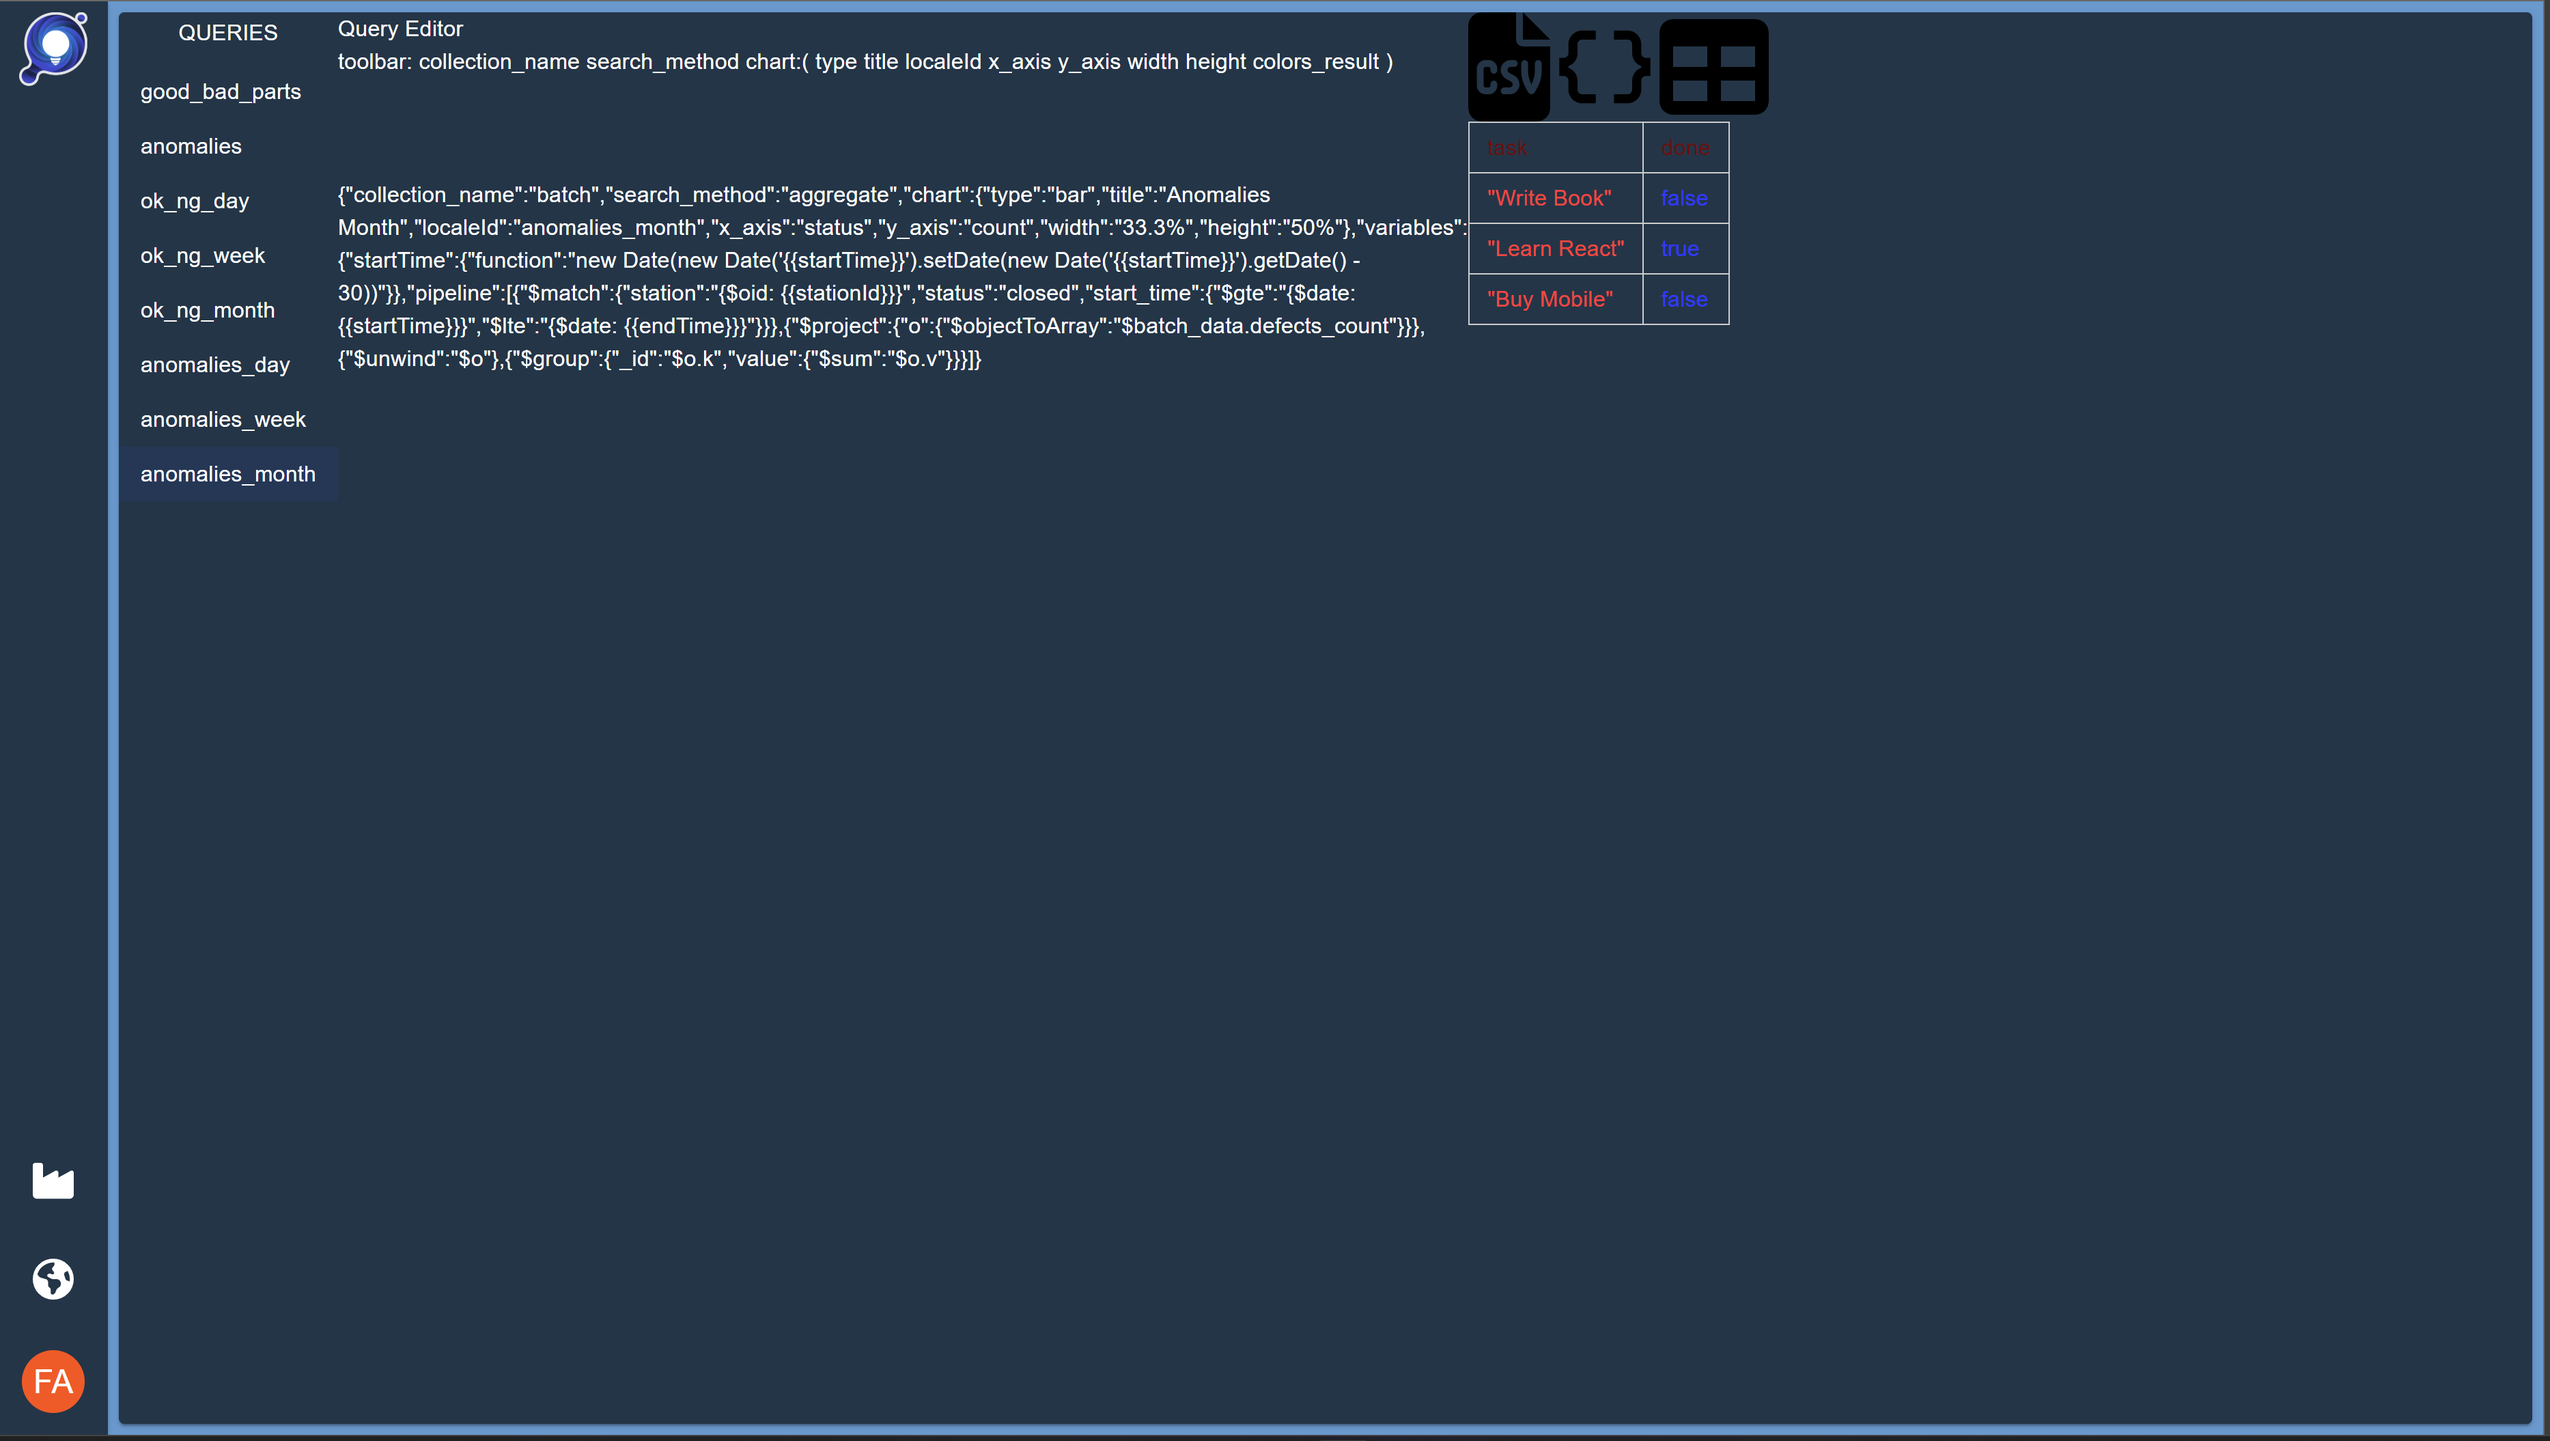
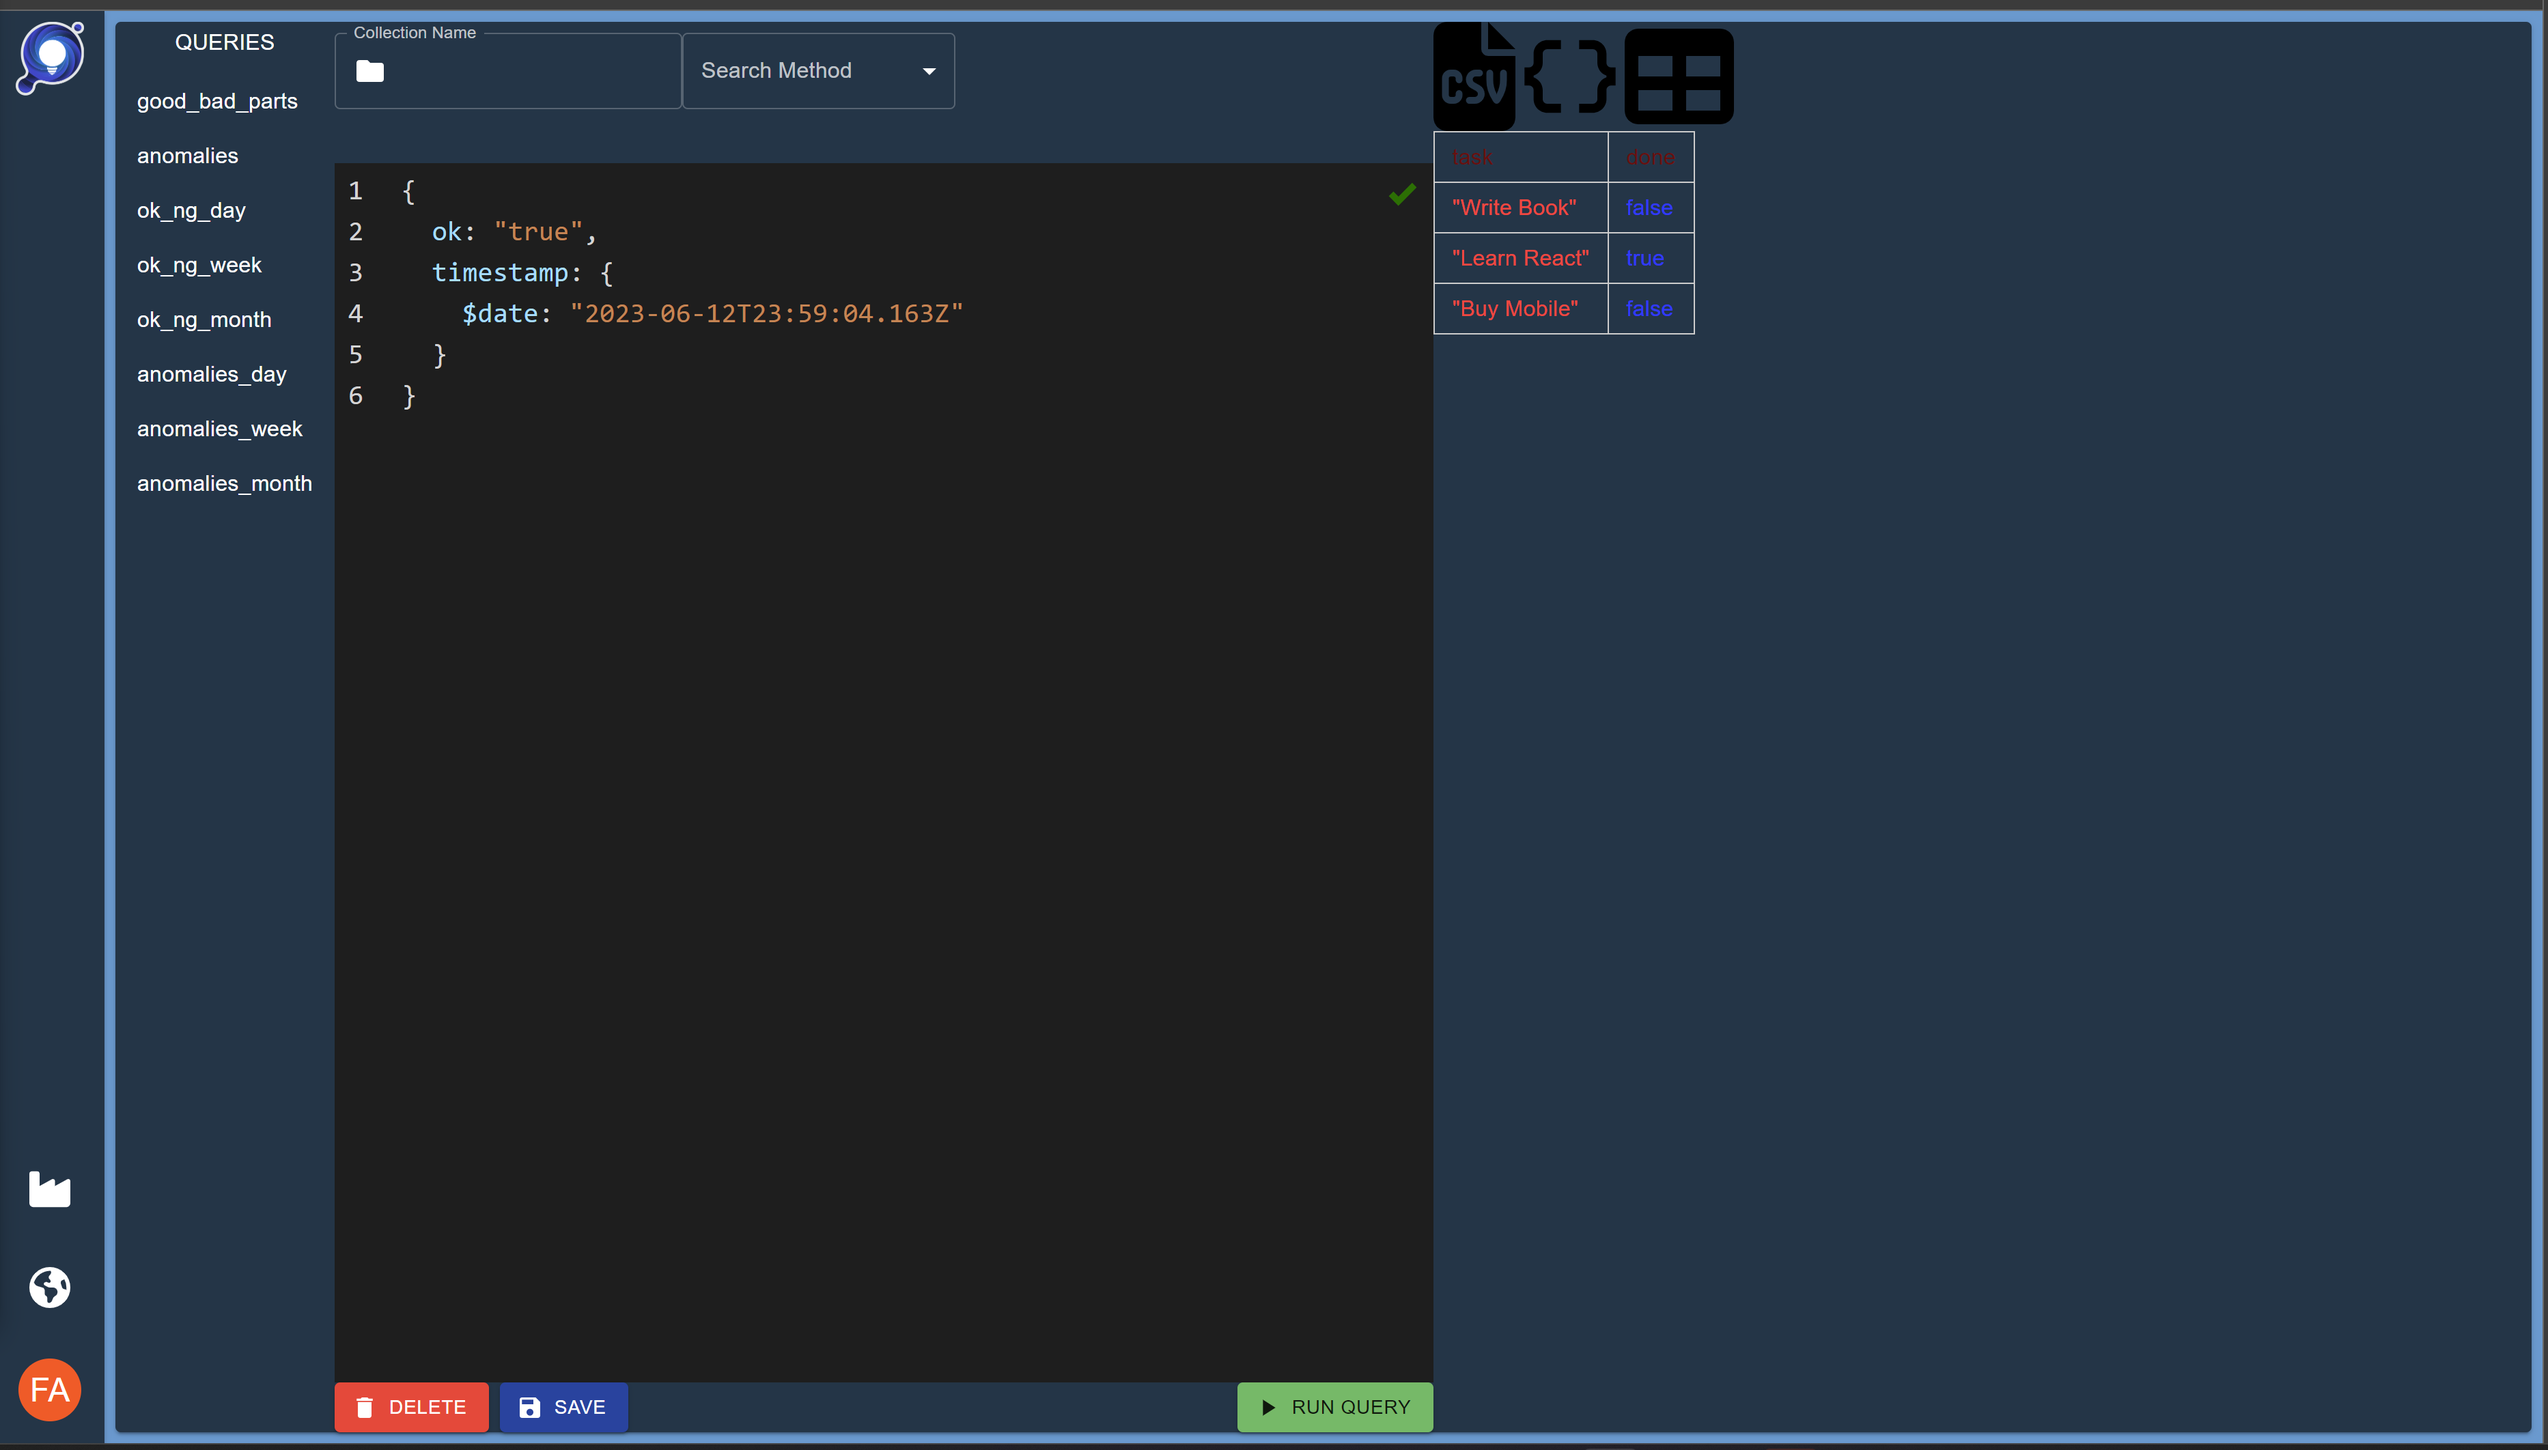
working in query tool

diff --git a/src/toolsPages/Query/index.js b/src/toolsPages/Query/index.js
@@ -2,7 +2,25 @@
 import React, { useEffect, useState } from 'react';
 
 // Design
-import { Box, List, ListItemButton, Tooltip, Typography } from '@mui/material';
+import {
+  Box
+  , List
+  , ListItemButton
+  , Tooltip
+  , Typography
+  , Button
+  , TextField
+  , MenuItem
+  , FormControl
+  , InputLabel
+  , Select,
+  Stack
+} from '@mui/material';
+import SaveIcon from '@mui/icons-material/Save';
+import FolderIcon from '@mui/icons-material/Folder';
+import InputAdornment from '@mui/material/InputAdornment';
+import PlayArrowIcon from '@mui/icons-material/PlayArrow';
+import DeleteIcon from '@mui/icons-material/Delete';
 
 // Internal
 import PageWrapper from '../../components/PageWrapper';
@@ -11,7 +29,8 @@ import API from '../../api';
 // Third-party
 import ReactJSONViewer from 'react-json-viewer';
 import { useTranslation } from "react-i18next";
-
+import JSONInput from 'react-json-editor-ajrm';
+import locale from 'react-json-editor-ajrm/locale/en';
 
 const style = {
   mainBox: Object.assign({}, window.app_config.style.box, {
@@ -32,13 +51,60 @@ var jsonData = [{
   "done": false
 }];
 
+const SEARCH_METHODS = [
+  {
+    method: 'find',
+  },
+  {
+    method: 'aggregate',
+  },
+  {
+    method: 'count',
+  },
+  // {
+  //   method: 'distinct',
+  // },
+  {
+    method: 'estimatedDocumentCount',
+  },
+  {
+    method: 'findOne',
+  },
+  // {
+  //   method: 'findOneAndDelete',
+  // },
+  // {
+  //   method: 'findOneAndRemove',
+  // },
+  // {
+  //   method: 'findOneAndReplace',
+  // },
+  // {
+  //   method: 'findOneAndUpdate',
+  // },
+  // {
+  //   method: 'insertMany',
+  // },
+  // {
+  //   method: 'insertOne',
+  // },
+  // {
+  //   method: 'replaceOne',
+  // },
+  // {
+  //   method: 'updateMany',
+  // },
+  // {
+  //   method: 'updateOne',
+]
+
 export default function Query({ pageOptions }) {
 
   const { t } = useTranslation();
 
   const [queryData, setQueryData] = useState(null);
   const [selectedQuery, setSelectedQuery] = useState('');
-
+  const [searchMethod, setSearchMethod] = useState('');
 
   const getData = () => {
     API.get.query({})
@@ -53,6 +119,15 @@ export default function Query({ pageOptions }) {
   useEffect(() => {
     getData();
   }, []);
+
+
+  const saveQuery = () => {
+    console.log('saveQuery');
+  }
+
+  const handleSearchMethodChange = (event) => {
+    setSearchMethod(event.target.value);
+  };
 
   return (
     <PageWrapper>
@@ -126,19 +201,56 @@ export default function Query({ pageOptions }) {
               width: 'calc(100% - 250px)',
             }}
           >
-            Query Editor
             <Box
               sx={{
                 display: 'flex',
                 flexGrow: 1,
                 height: '100px',
                 width: '100%',
+                marginTop: 1
               }}
             >
-              toolbar:
-              collection_name
-              search_method
-              chart:(
+              <TextField
+                id="collection-name"
+                label={t('collection_name')}
+                variant="outlined"
+                InputProps={{
+                  startAdornment: (
+                    <InputAdornment position="start">
+                      <FolderIcon />
+                    </InputAdornment>
+                  ),
+                }}
+              />
+              <FormControl
+                sx={{
+                  minWidth: 200,
+                }}
+              >
+                <InputLabel id="search-method-input-label">{t('search_method')}</InputLabel>
+                <Select
+                  labelId="search-method-select"
+                  id="demo-simple-select"
+                  value={searchMethod}
+                  label={t('search_method')}
+                  onChange={handleSearchMethodChange}
+                >
+                  {
+                    SEARCH_METHODS.map((method, index) => {
+                      return (
+                        <MenuItem
+                          key={index}
+                          value={method.method}
+                        >
+                          {method.method}
+                        </MenuItem>
+                      )
+                    })
+                  }
+                </Select>
+              </FormControl>
+
+              {/* chart:(
               type
               title
               localeId
@@ -147,7 +259,7 @@ export default function Query({ pageOptions }) {
               width
               height
               colors_result
-              )
+              ) */}
             </Box>
             <Box
               sx={{
@@ -157,9 +269,72 @@ export default function Query({ pageOptions }) {
                 width: '100%',
               }}
             >
-              {
-                JSON.stringify(queryData?.[selectedQuery])
-              }
+
+              <JSONInput
+                id='a_unique_id'
+                placeholder={queryData?.[selectedQuery] ?? {}}
+                // colors={darktheme}
+                locale={locale}
+                height={'100%'}
+                width={'100%'}
+                fontSize={50}
+                waitAfterKeyPress={3000}
+                style={{
+                  body: {
+                    fontSize: '20px',
+                  }
+                }}
+              />
+            </Box>
+            <Box
+              sx={{
+                display: 'flex',
+                flexDirection: 'row',
+                width: '100%',
+              }}
+            >
+              <Box
+                sx={{
+                  flexGrow: 1,
+                }}
+              >
+                <Stack direction='row' justifyContent='flex-start' gap={1}>
+                  <Button
+                    onClick={saveQuery}
+                    variant='contained'
+                    startIcon={<DeleteIcon />}
+                    color='error'
+                  >
+                    {t('delete')}
+                  </Button>
+                  <Button
+                    onClick={saveQuery}
+                    variant='contained'
+                    startIcon={<SaveIcon />}
+                  >
+                    {t('save')}
+                  </Button>
+                </Stack>
+              </Box>
+              <Box
+                sx={{
+                  flexGrow: 1,
+                }}
+              >
+                <Stack direction="row" justifyContent='flex-end' gap={1}>
+                  <Button
+                    onClick={saveQuery}
+                    variant='contained'
+                    startIcon={<PlayArrowIcon />}
+                    color='success'
+                    sx={{
+                      marginLeft: 1
+                    }}
+                  >
+                    {t('run_query')}
+                  </Button>
+                </Stack>
+              </Box>
             </Box>
           </Box>
           <Box
